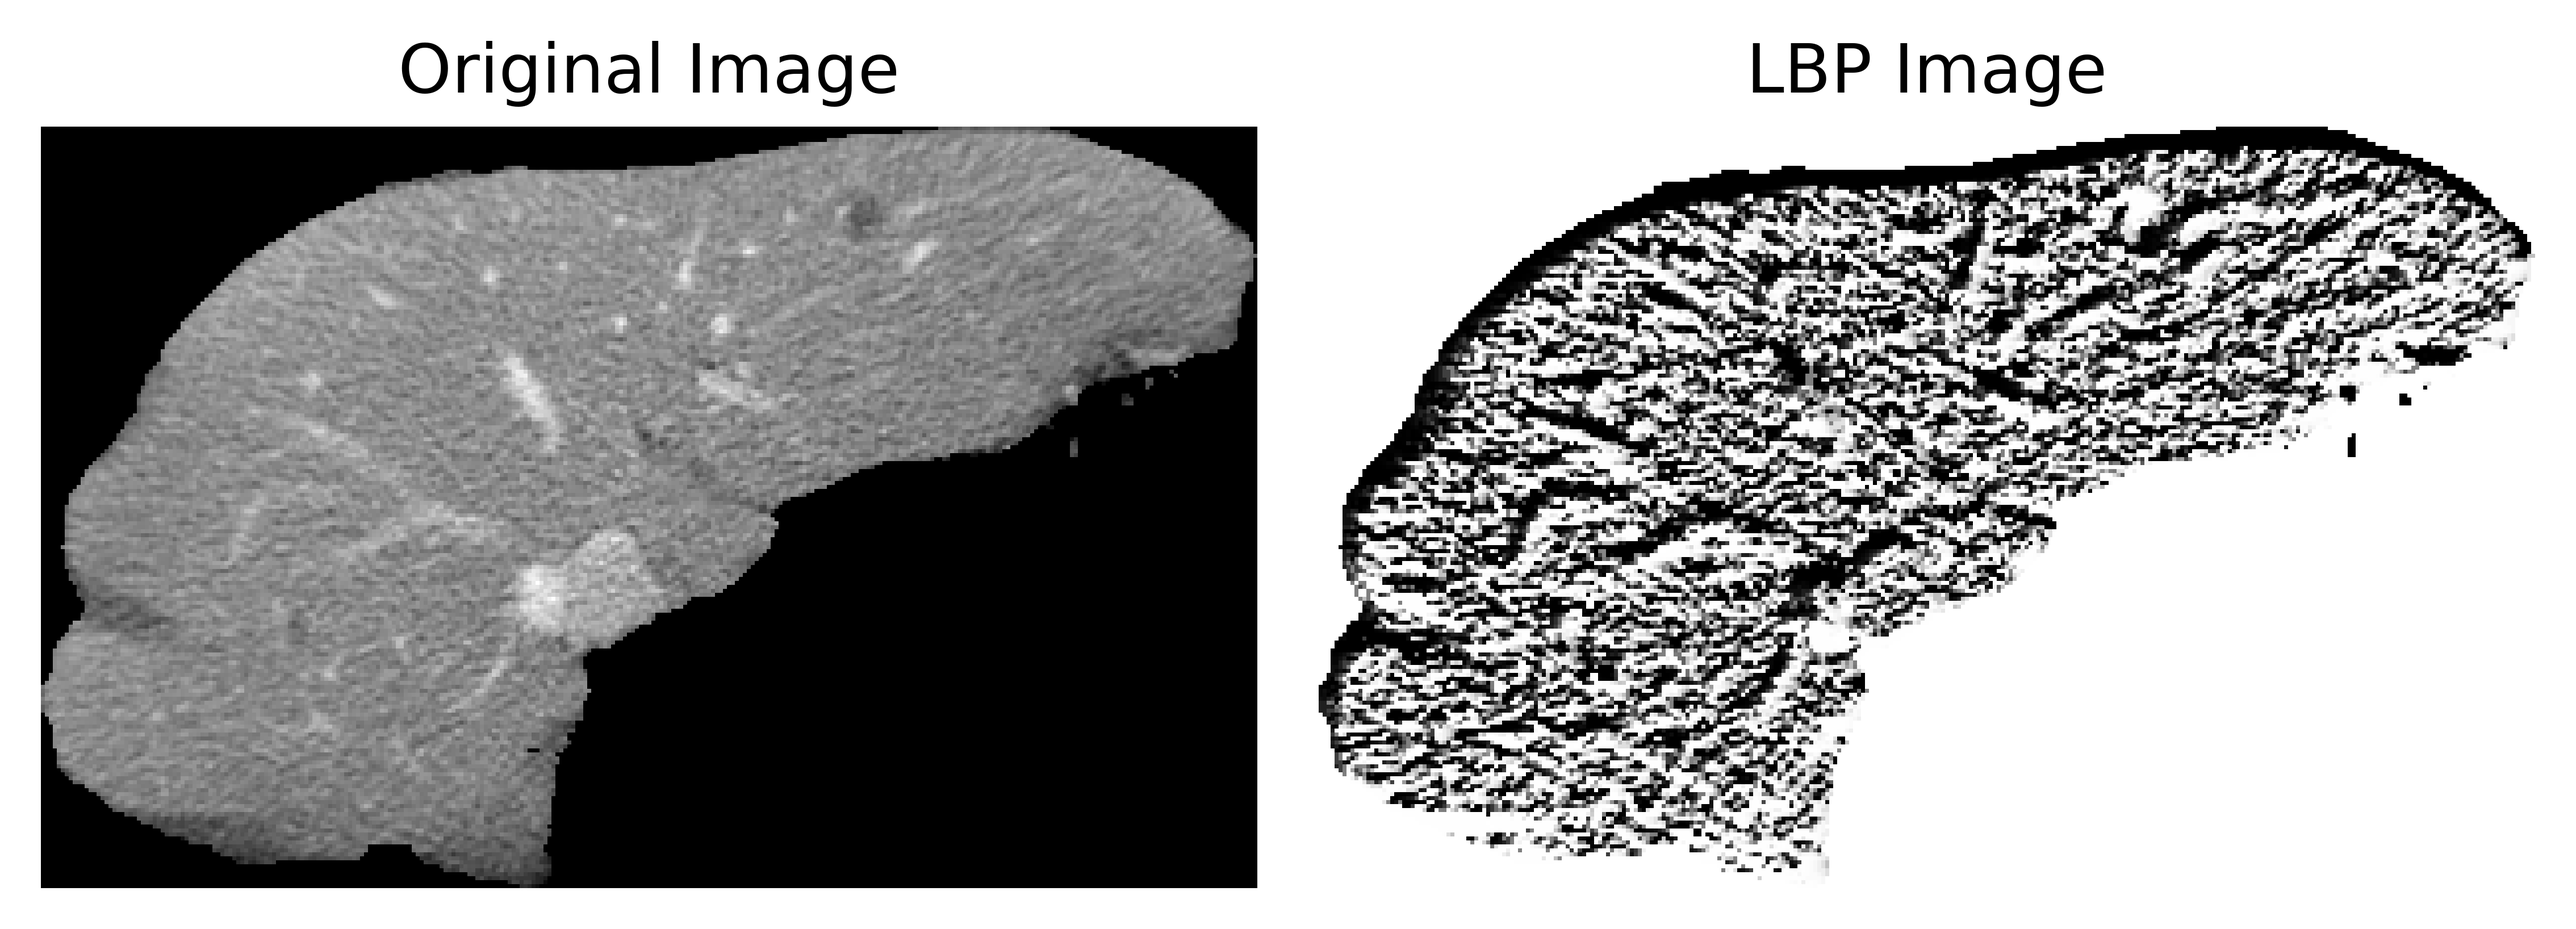
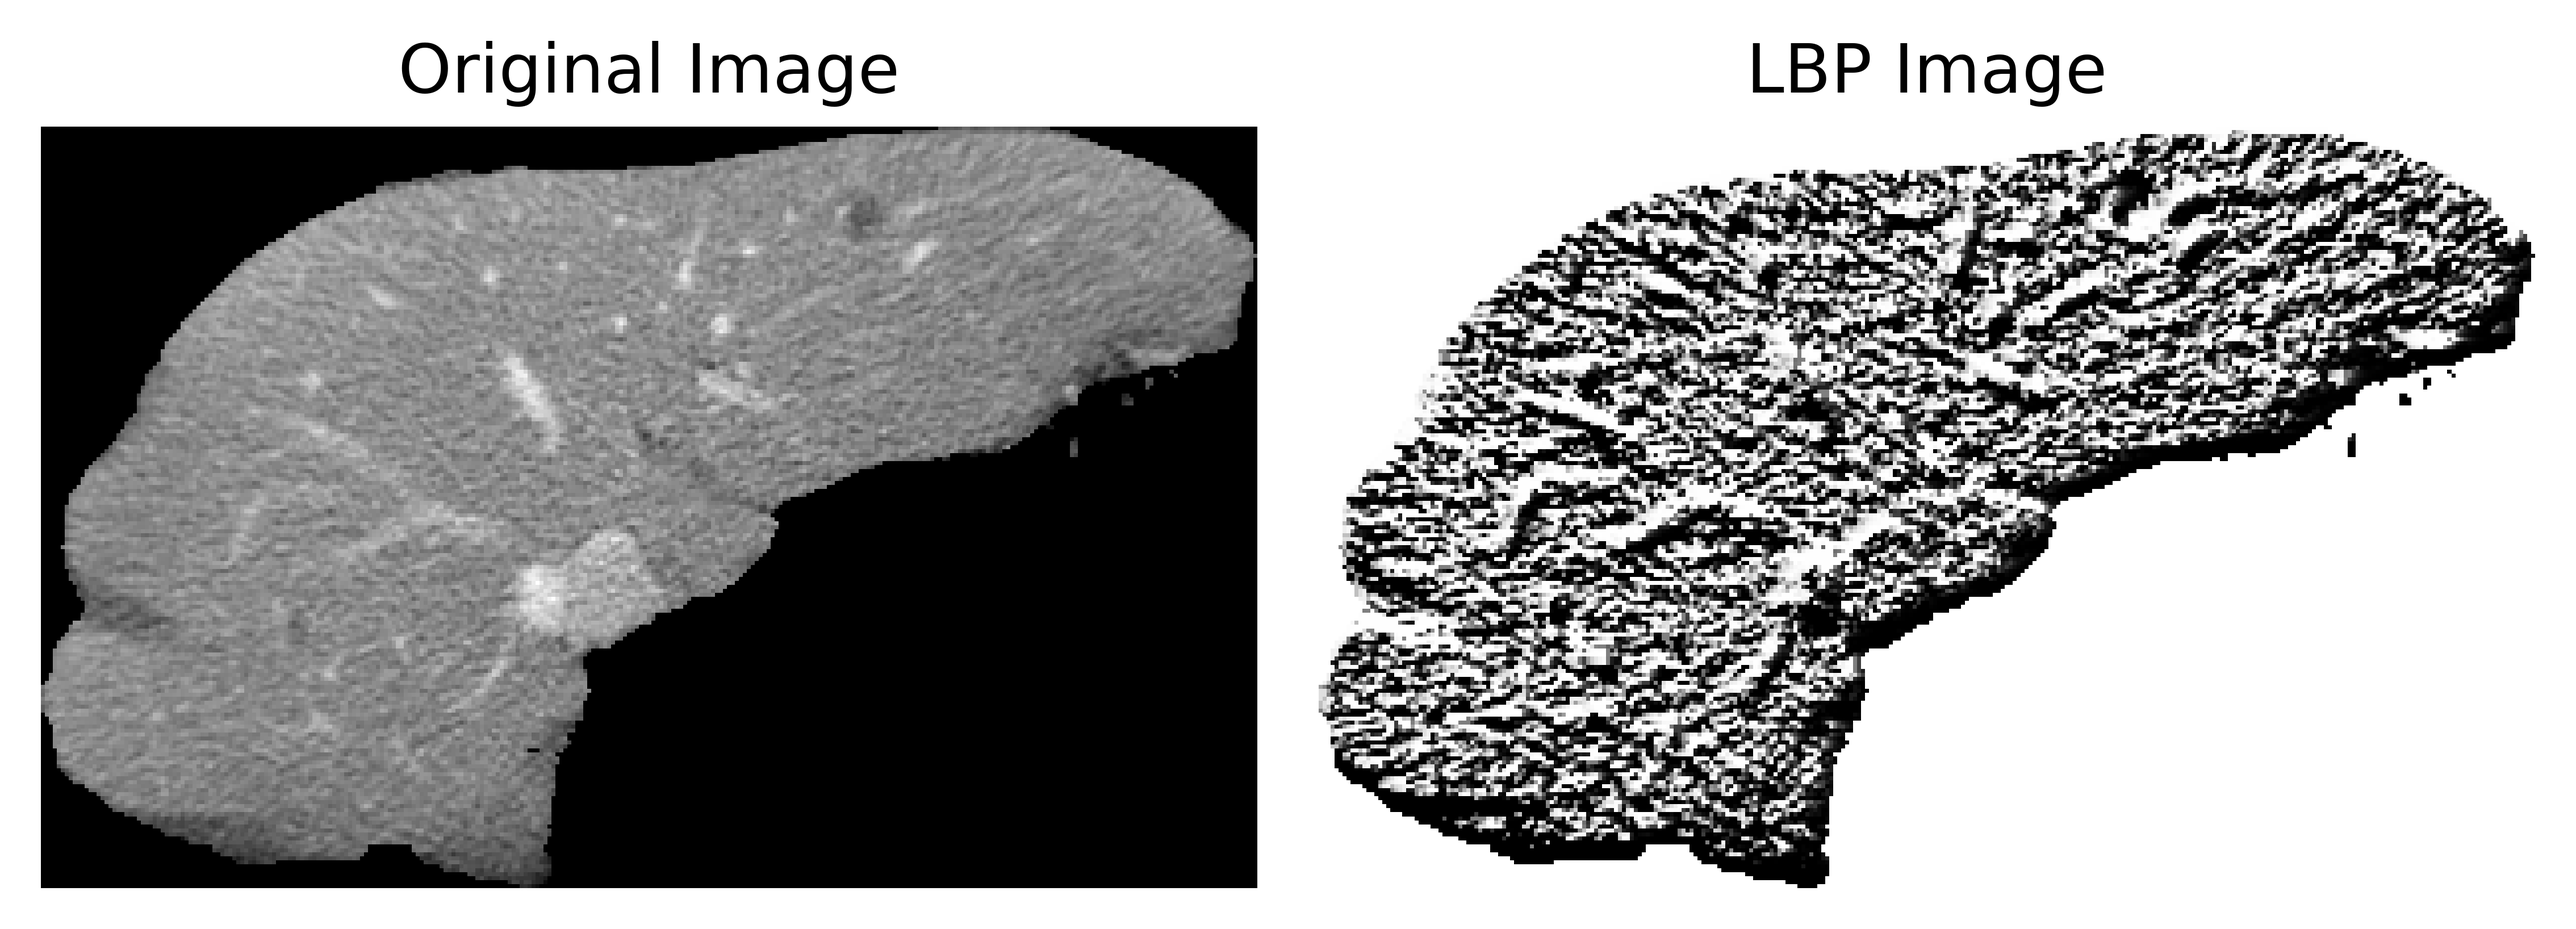
Updating Lecture 08.

Changed region(s): [[0.4974, 0.1247, 0.9947, 0.9664]]

diff --git a/Lectures Scripts/HMB_Summer_2025_Helpers.py b/Lectures Scripts/HMB_Summer_2025_Helpers.py
@@ -6,7 +6,7 @@
 ========================================================================
 # Author: Hossam Magdy Balaha
 # Initial Creation Date: May 21st, 2025
-# Last Modification Date: Jun 24th, 2025
+# Last Modification Date: Jul 6th, 2025
 # Permissions and Citation: Refer to the README file.
 '''
 
@@ -1432,6 +1432,11 @@ def BuildLBPKernel(
   # Rotate the coordinates list by thetaShift positions.
   coordinates = coordinates[thetaShift:] + coordinates[:thetaShift]  # Shift the coordinates list.
 
+  # If the rotation direction is clockwise, rotate the kernel counterclockwise.
+  if (isClockwise):
+    # Reverse the order of coordinates except the first one.
+    coordinates = [coordinates[0]] + coordinates[1:][::-1]
+
   # Assign powers of 2 to the edge elements in the kernel.
   counter = 0  # Counter to track the current power of 2.
 
@@ -1443,9 +1448,8 @@ def BuildLBPKernel(
       kernel[y, x] = 2 ** counter  # Assign 2^counter to the current position.
       counter += 1  # Increment the counter for the next power of 2.
 
-  # If the rotation direction is not clockwise, rotate the kernel counterclockwise.
-  if (not isClockwise):
-    kernel = kernel.T
+  # Transpose the kernel to match the expected orientation.
+  kernel = kernel.T
 
   return kernel  # Return the final kernel matrix.
 
@@ -1484,9 +1488,16 @@ def LocalBinaryPattern2D(
   # Check if the angle (theta) is outside the valid range (0 to 360 degrees), raising a ValueError if true.
   if (theta < 0 or theta > 360):
     raise ValueError("Theta must be between 0 and 360 degrees.")
-  # Check if the angle (theta) is not a multiple of 45 degrees, raising a ValueError if true.
-  if (theta % 45 != 0):
-    raise ValueError("Theta must be a multiple of 45 degrees.")
+
+  # Calculate the total number of elements on the edges.
+  noOfElements = 8 * distance  # Total number of edge elements is 8 * distance.
+
+  # Calculate the angle between consecutive elements.
+  angle = 360.0 / float(noOfElements)  # Divide 360 degrees by the total number of edge elements.
+
+  # Check if the angle (theta) is not a multiple of {angle} degrees, raising a ValueError if true.
+  if (theta % angle != 0):
+    raise ValueError(f"Theta must be a multiple of {angle} degrees.")
 
   # Calculate the size of the kernel window based on the distance parameter.
   windowSize = distance * 2 + 1
@@ -1503,6 +1514,7 @@ def LocalBinaryPattern2D(
 
   # Initialize an empty matrix to store the computed LBP values.
   lbpMatrix = np.zeros(matrix.shape, dtype=np.uint32)
+
   # Pad the input matrix with zeros to handle boundary conditions during convolution.
   paddedA = np.pad(matrix, distance, mode="constant", constant_values=0)
 

diff --git a/Lectures Scripts/[28] Local Binary Pattern for 2D.py b/Lectures Scripts/[28] Local Binary Pattern for 2D.py
@@ -85,8 +85,11 @@ hist2DLBP = np.array(hist2DLBP)
 # Calculate percentiles of the histogram to summarize the distribution.
 quantiles = [10, 25, 50, 75, 90]
 percentiles = np.percentile(hist2D, quantiles)
+percentilesLBP = np.percentile(hist2DLBP, quantiles)
+
 print("Percentiles:")
-print(percentiles)
+print("Histogram Percentiles:", percentiles)
+print("LBP Histogram Percentiles:", percentilesLBP)
 
 # Visualize the original image and the computed LBP image side by side.
 plt.figure()

diff --git a/Lectures Scripts/[26] Local Binary Pattern Kernel Creation Example.py b/Lectures Scripts/[26] Local Binary Pattern Kernel Creation Example.py
@@ -17,10 +17,10 @@ from HMB_Summer_2025_Helpers import *
 distance = 1
 
 # Specify whether the LBP computation should follow a clockwise direction.
-isClockwise = False
+isClockwise = True
 
 # Define the starting angle (theta) for the LBP computation, measured in degrees.
-thetaDegree = 225  # Start from the top-left corner.
+thetaDegree = 135  # Start from the top-left corner.
 
 # Create a kernel matrix to represent the LBP pattern weights.
 kernel = BuildLBPKernel(

diff --git a/Lectures Scripts/[27] Local Binary Pattern Example.py b/Lectures Scripts/[27] Local Binary Pattern Example.py
@@ -15,7 +15,7 @@ import numpy as np  # For numerical operations.
 import matplotlib.pyplot as plt  # For plotting and visualization.
 from HMB_Summer_2025_Helpers import *
 
-# Define the input matrix A containfing integer values.
+# Define the input matrix A containing integer values.
 A = [
   [17, 32, 32, 47, 11],
   [37, 21, 22, 18, 4],
